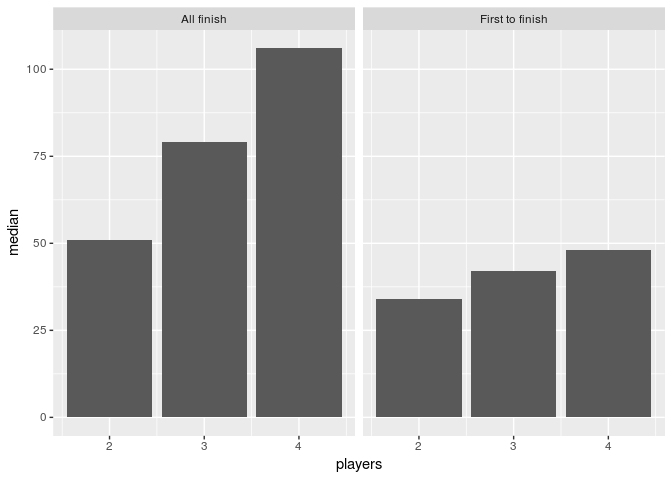
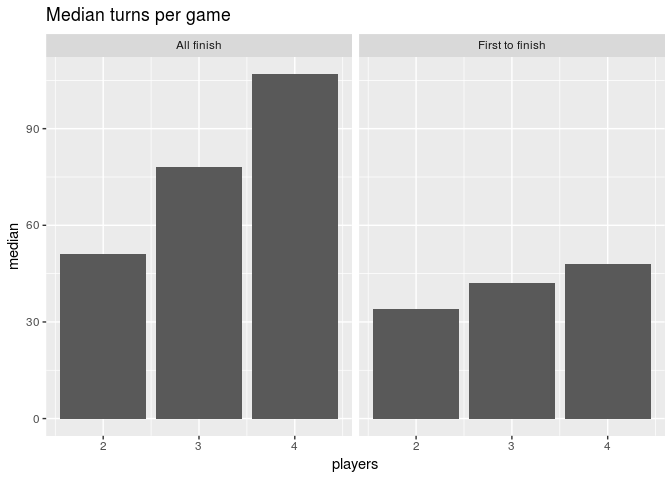
Changed histograms to log scale Added explicit axis labels Added titles to plots

diff --git a/README.md b/README.md
@@ -136,7 +136,7 @@ game_data <-
     group_by(sim) %>%
     mutate(turns = multiPlayer(dieOutcomes, board1$snakeladder, maxPosition, maxMoves, players, allfinish)) %>% 
     ungroup %>%
-    mutate(turns_rounded = round(turns/10,0)*10,
+    mutate(turns_log_rounded = exp(round(log(turns)*4,0)/4),
            allfinish = ifelse(allfinish, "All finish", "First to finish"),
            players_text = paste(players, " players"))
 ```
@@ -164,18 +164,19 @@ game_summary
     ## # A tibble: 6 x 6
     ##         allfinish players     mean median       sd percentile95
     ##             <chr>   <int>    <dbl>  <dbl>    <dbl>        <dbl>
-    ## 1      All finish       2  55.4026     51 24.70081          103
-    ## 2      All finish       3  83.8603     79 30.64090          142
-    ## 3      All finish       4 111.3003    106 35.63093          178
-    ## 4 First to finish       2  37.0884     34 19.79109           74
-    ## 5 First to finish       3  45.1662     42 21.62464           87
-    ## 6 First to finish       4  52.9324     48 23.67428           96
+    ## 1      All finish       2  55.3544     51 24.79333          105
+    ## 2      All finish       3  83.2107     78 31.08375          142
+    ## 3      All finish       4 111.1637    107 35.21247          176
+    ## 4 First to finish       2  36.8452     34 19.73684           74
+    ## 5 First to finish       3  45.5433     42 21.95013           87
+    ## 6 First to finish       4  53.1796     48 24.01684           96
 
 ``` r
 game_summary %>%
     ggplot(aes(players, median)) +
     geom_bar(stat = "identity") +
-    facet_grid(. ~ allfinish)
+    facet_grid(. ~ allfinish) +
+    ggtitle("Median turns per game")
 ```
 
 ![](README_files/figure-markdown_github-ascii_identifiers/unnamed-chunk-4-1.png)
@@ -184,7 +185,8 @@ game_summary %>%
 game_summary %>%
     ggplot(aes(players, percentile95)) +
     geom_bar(stat = "identity") +
-    facet_grid(. ~ allfinish)
+    facet_grid(. ~ allfinish) +
+    ggtitle("95th percentile of turns per game")
 ```
 
 ![](README_files/figure-markdown_github-ascii_identifiers/unnamed-chunk-4-2.png)
@@ -192,14 +194,21 @@ game_summary %>%
 ``` r
 game_dist <- 
     game_data %>%
-    group_by(players_text, allfinish, turns_rounded) %>%
+    group_by(players_text, allfinish, turns_log_rounded) %>%
     summarise(count = n()) %>%
     ungroup
+
+logrng <- log(range(game_dist$turns_log_rounded))
+loglab <- log(min(game_dist$turns_log_rounded)) + (0:8)*(logrng[2] - logrng[1])/8
+lab <- round(exp(loglab),0)
     
 game_dist %>%
-    ggplot(aes(turns_rounded, count)) +
+    ggplot(aes(turns_log_rounded, count)) +
     geom_bar(stat = "identity") +
-    facet_grid(players_text ~ allfinish)
+    scale_x_continuous(trans = "log",
+                       breaks = lab) +
+    facet_grid(players_text ~ allfinish) +
+    ggtitle("Histograms of turns per game (log scale)")
 ```
 
 ![](README_files/figure-markdown_github-ascii_identifiers/unnamed-chunk-4-3.png)
